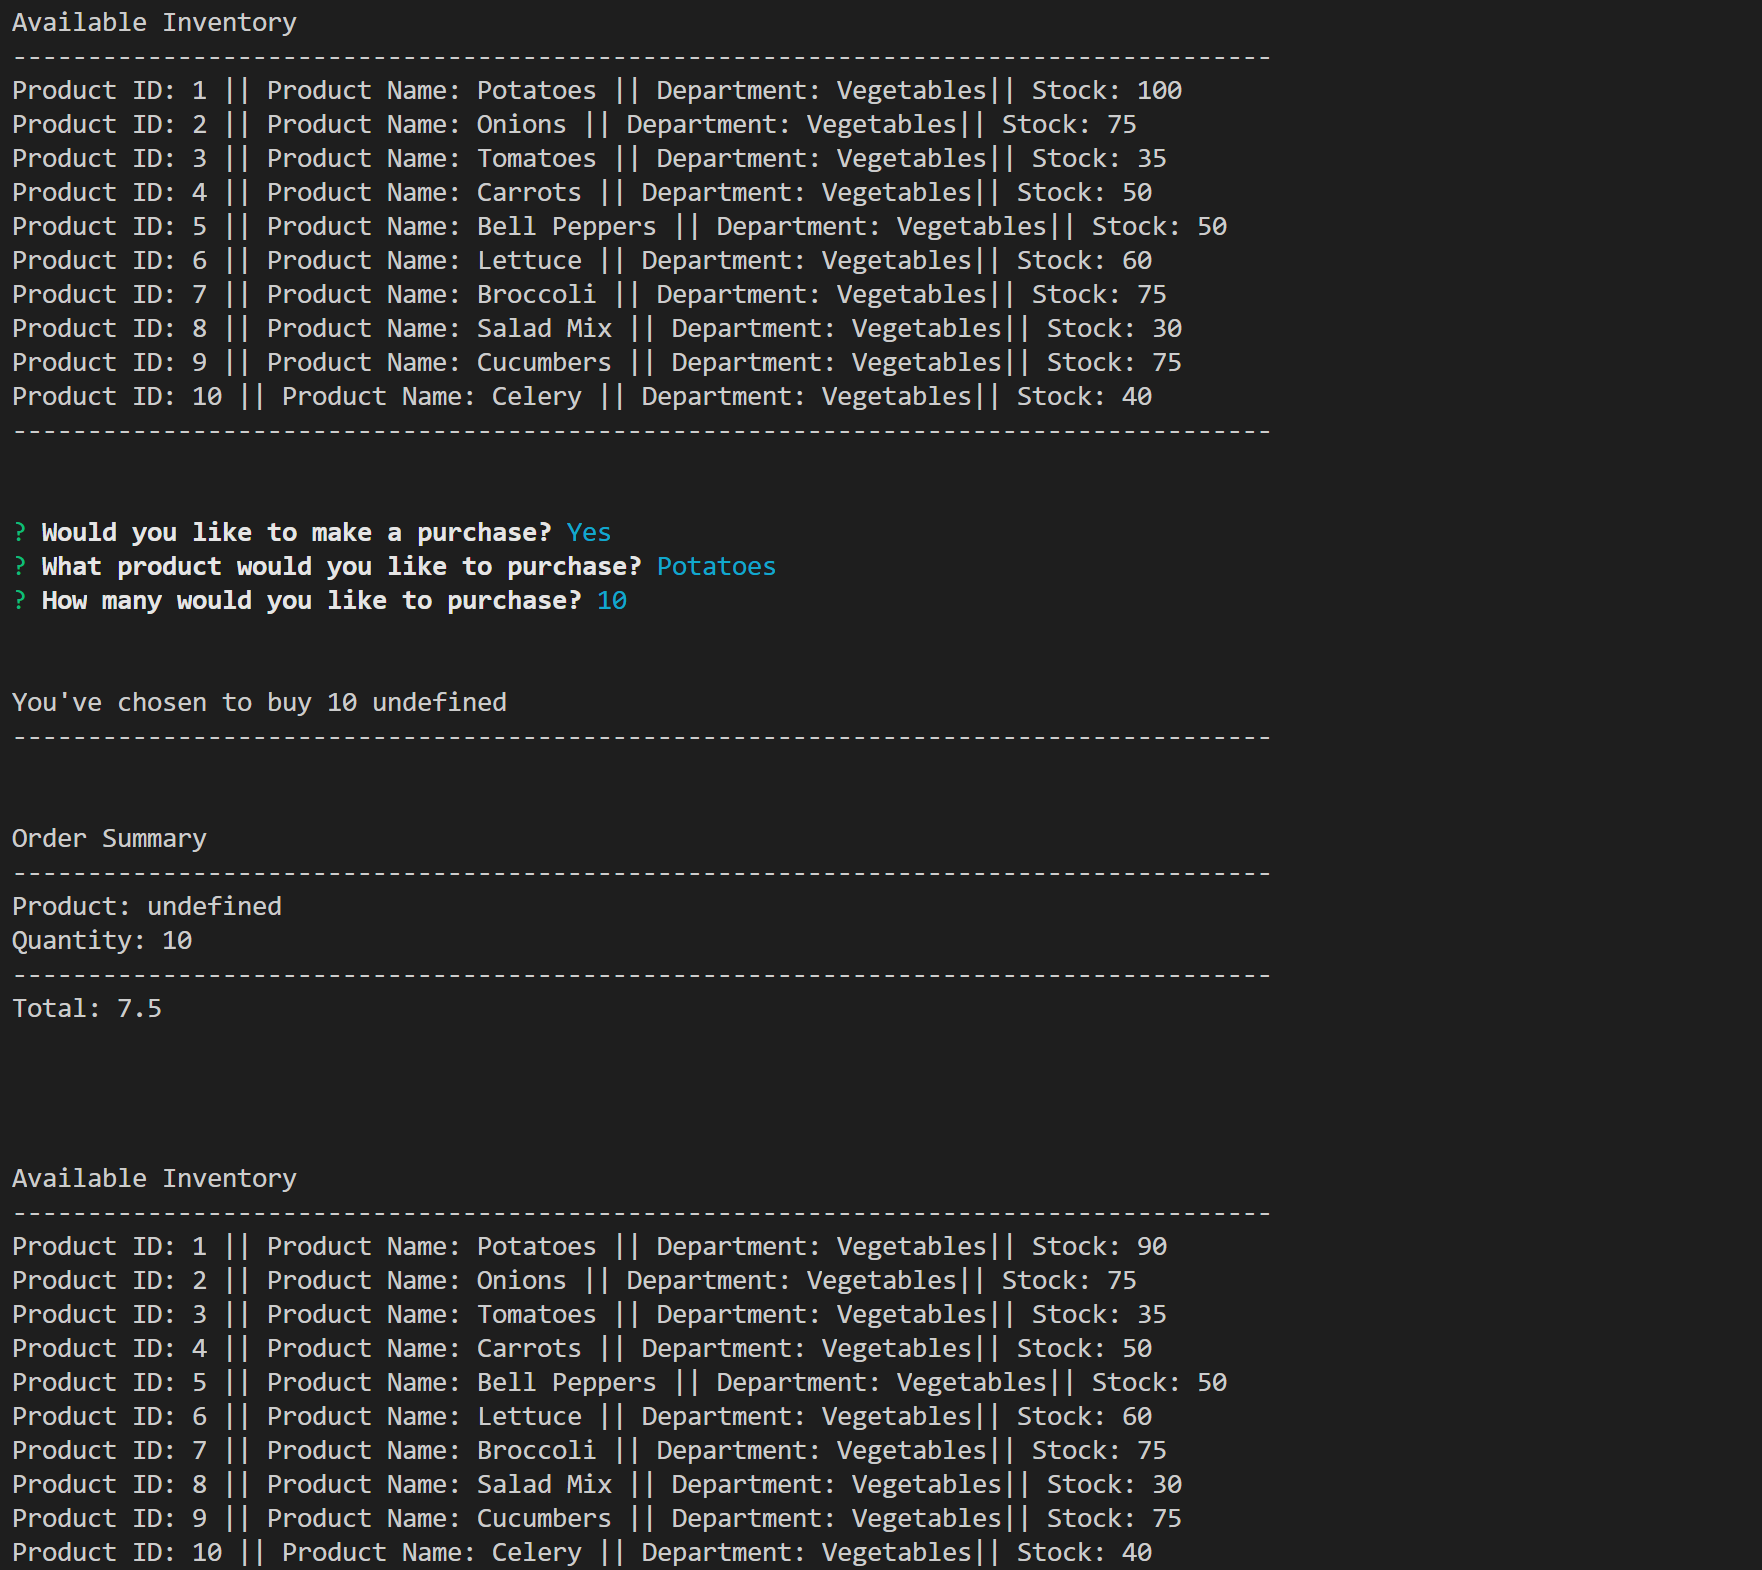
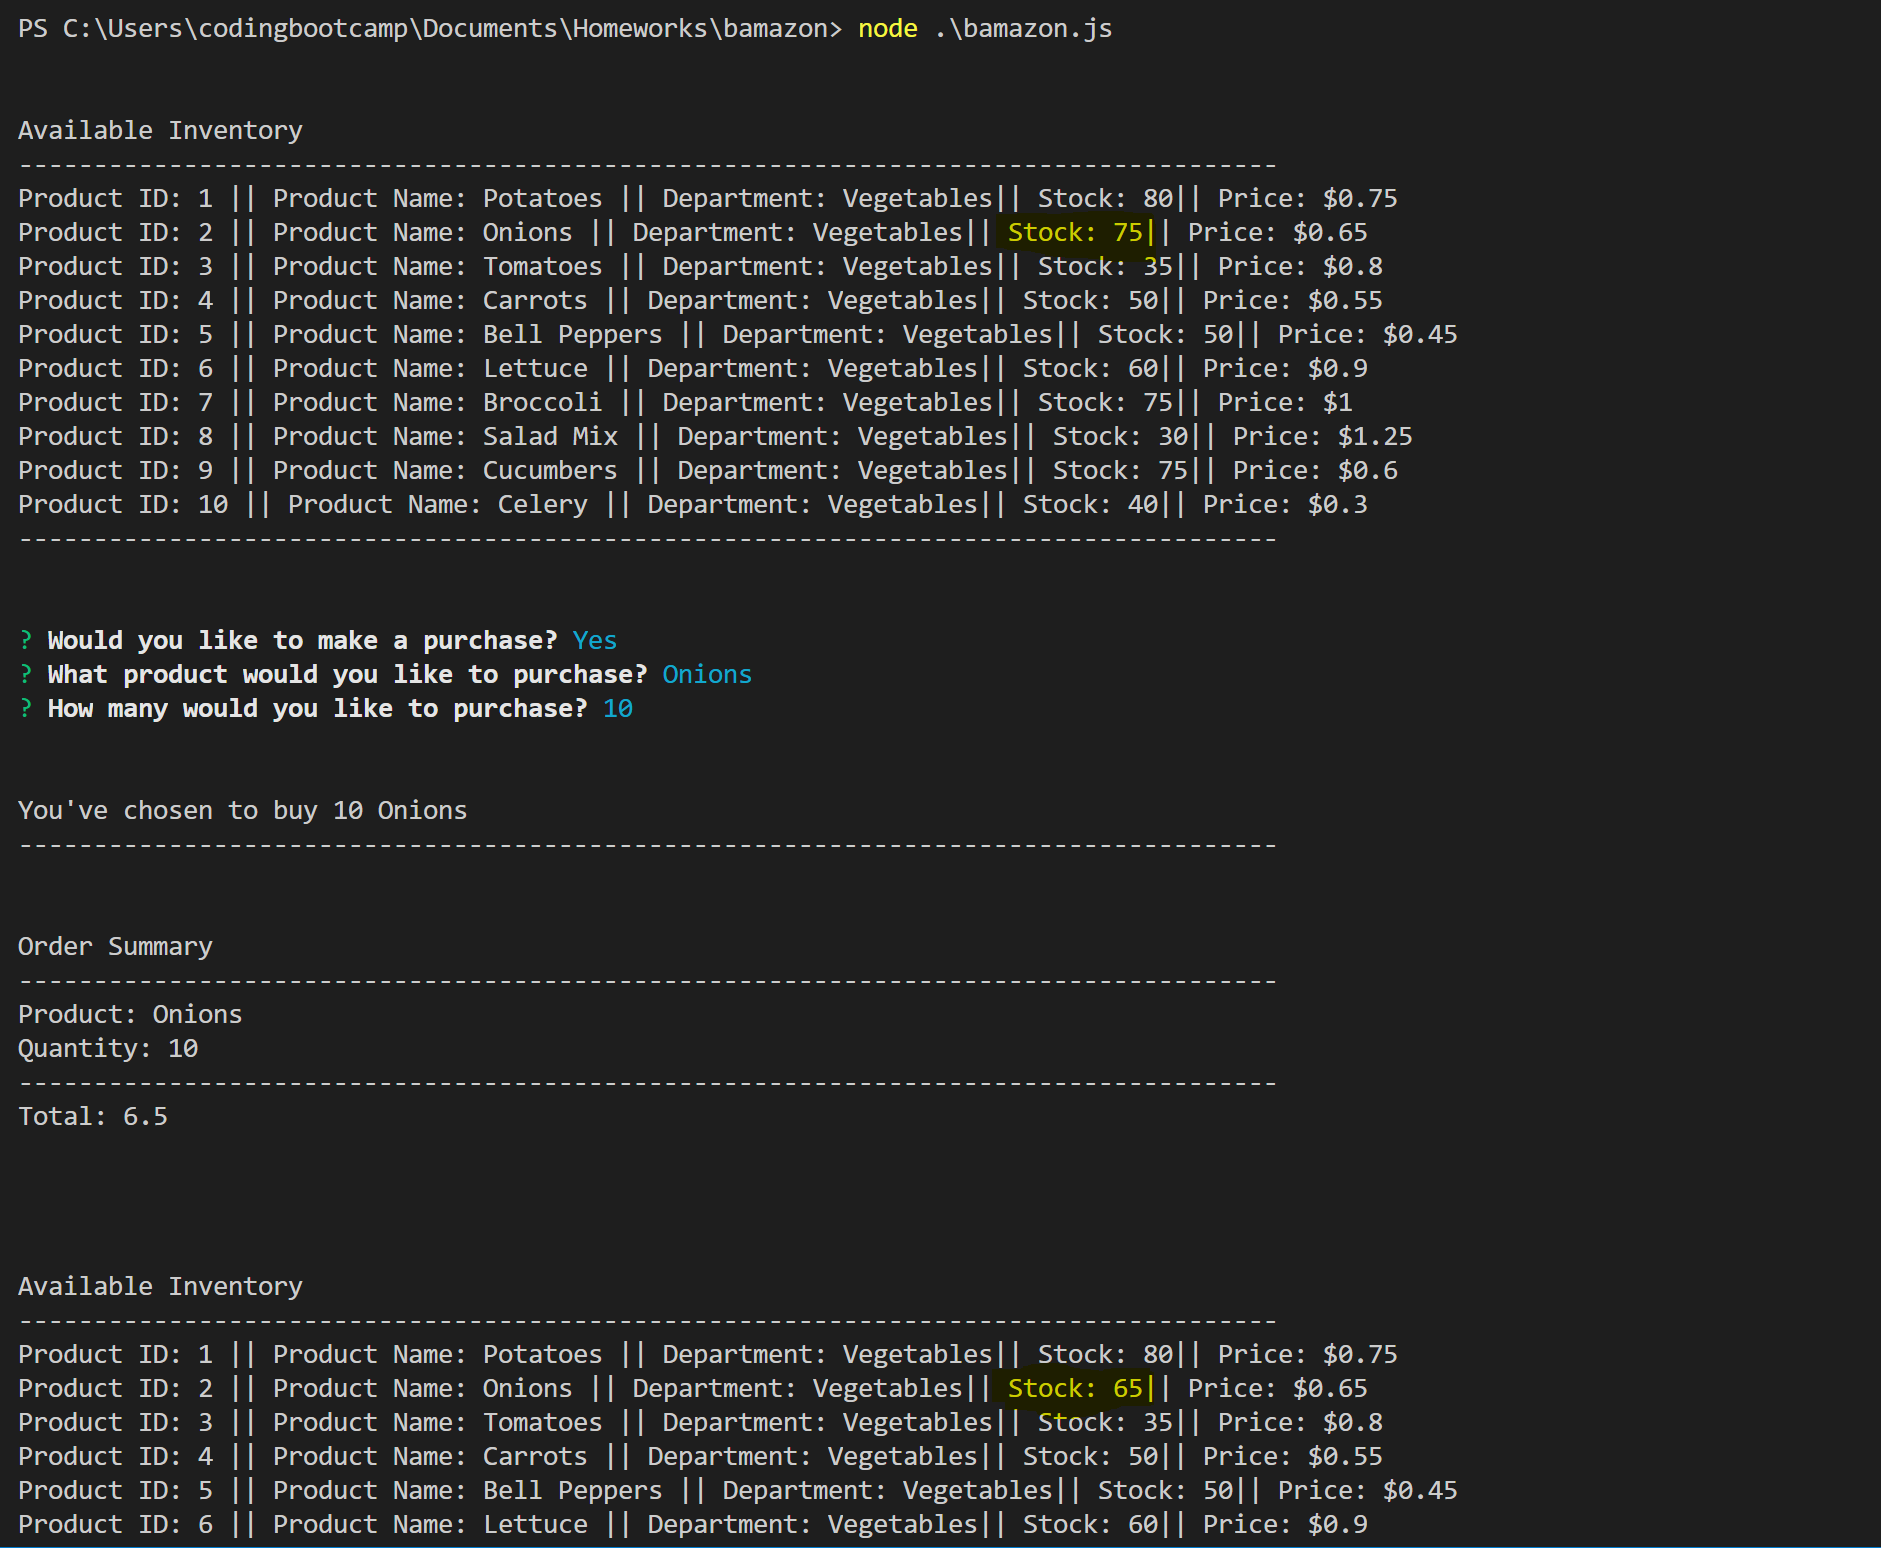
cleaned up some of the code.  updated the code to show the price

Changed region(s): [[0.0, 0.0, 0.7491, 0.4651], [0.0, 0.7132, 0.7491, 1.0], [0.0, 0.4961, 0.2497, 0.6822]]

diff --git a/bamazon.js b/bamazon.js
@@ -31,7 +31,7 @@ function start() {
        console.log("Available Inventory");
        console.log("------------------------------------------------------------------------------------");
        for (var i = 0; i < res.length; i++) {
-        console.log("Product ID: " + res[i].item_id + " || Product Name: " + res[i].product_name + " || Department: " +  res[i].department_name + "|| Stock: " + res[i].stock_quantity);
+        console.log("Product ID: " + res[i].item_id + " || Product Name: " + res[i].product_name + " || Department: " +  res[i].department_name + "|| Stock: " + res[i].stock_quantity + "|| Price: $" + res[i].price);
        };
        console.log("------------------------------------------------------------------------------------");
        console.log("\n")
@@ -118,15 +118,15 @@ function itemPurchase () {
             function(error) {
               if (error) throw err;
               console.log("\n")
-              console.log("You've chosen to buy " + answer.quantity + " " + answer.product_name);
+              console.log("You've chosen to buy " + answer.quantity + " " + answer.choice);
               console.log("------------------------------------------------------------------------------------");
               console.log("\n")
               console.log("Order Summary");
               console.log("------------------------------------------------------------------------------------");
-              console.log("Product: " + answer.product_name);
+              console.log("Product: " + answer.choice);
               console.log("Quantity: " + answer.quantity);
               console.log("------------------------------------------------------------------------------------");
-              console.log("Total: " + chosenItem.price * parseInt(answer.quantity));
+              console.log("Total: $" + chosenItem.price * parseInt(answer.quantity));
               console.log("\n")
               start();
             }
@@ -134,7 +134,8 @@ function itemPurchase () {
         }
         else {
           console.log("------------------------------------------------------------------------------------");
-          console.log("Insuffecient Quantity");
+          console.log("Insufficient Quantity");
+          console.log("Please choose Again!");
           start();
         }
     });

diff --git a/README.md b/README.md
@@ -1,1 +1,30 @@
-# bamazon
+# Bamazon
+
+**Overview**
+
+* Bamazon is a CLI App that is an Amazon-like storefront utilizing MySQL.  Bamazon interacts with the MySQL database allowing the user to view and purchase items.  Using MySQL, Javascript, and NodeJS Bamazon takes in the customers order, shows them the total for the order and then updates the database to remove the quantity the user chose from the stock of the product.
+
+**Before you Begin**
+
+* Install Node.js
+* Install MySQL
+* Using the bamazon.sql file, create a database in MySQL Workbench.
+* Update the bamazon.js file to include your password for the database and then follow the instructions below for installing the necessary packages.
+
+![install_packages](https://user-images.githubusercontent.com/54034107/70087898-232afa00-15e3-11ea-9280-964eedc01e21.PNG)
+
+**Demo**
+
+![runningProgram](https://user-images.githubusercontent.com/54034107/70088046-7c932900-15e3-11ea-88bc-bcf656f22d57.PNG)
+
+![makePurchase](https://user-images.githubusercontent.com/54034107/70088085-8c127200-15e3-11ea-9d97-afd8f415c95c.PNG)
+
+![productANDquantity](https://user-images.githubusercontent.com/54034107/70088102-97659d80-15e3-11ea-96ac-555bcb19fd16.PNG)
+
+![purchasemade_dbupdated](https://user-images.githubusercontent.com/54034107/70088131-a6e4e680-15e3-11ea-8fd2-d5e558f977ef.PNG)
+
+* If the user chooses a quantity above what is in the database
+
+![insufficientquantity](https://user-images.githubusercontent.com/54034107/70088175-be23d400-15e3-11ea-9ac9-2f8aa096f753.PNG)
+
+
